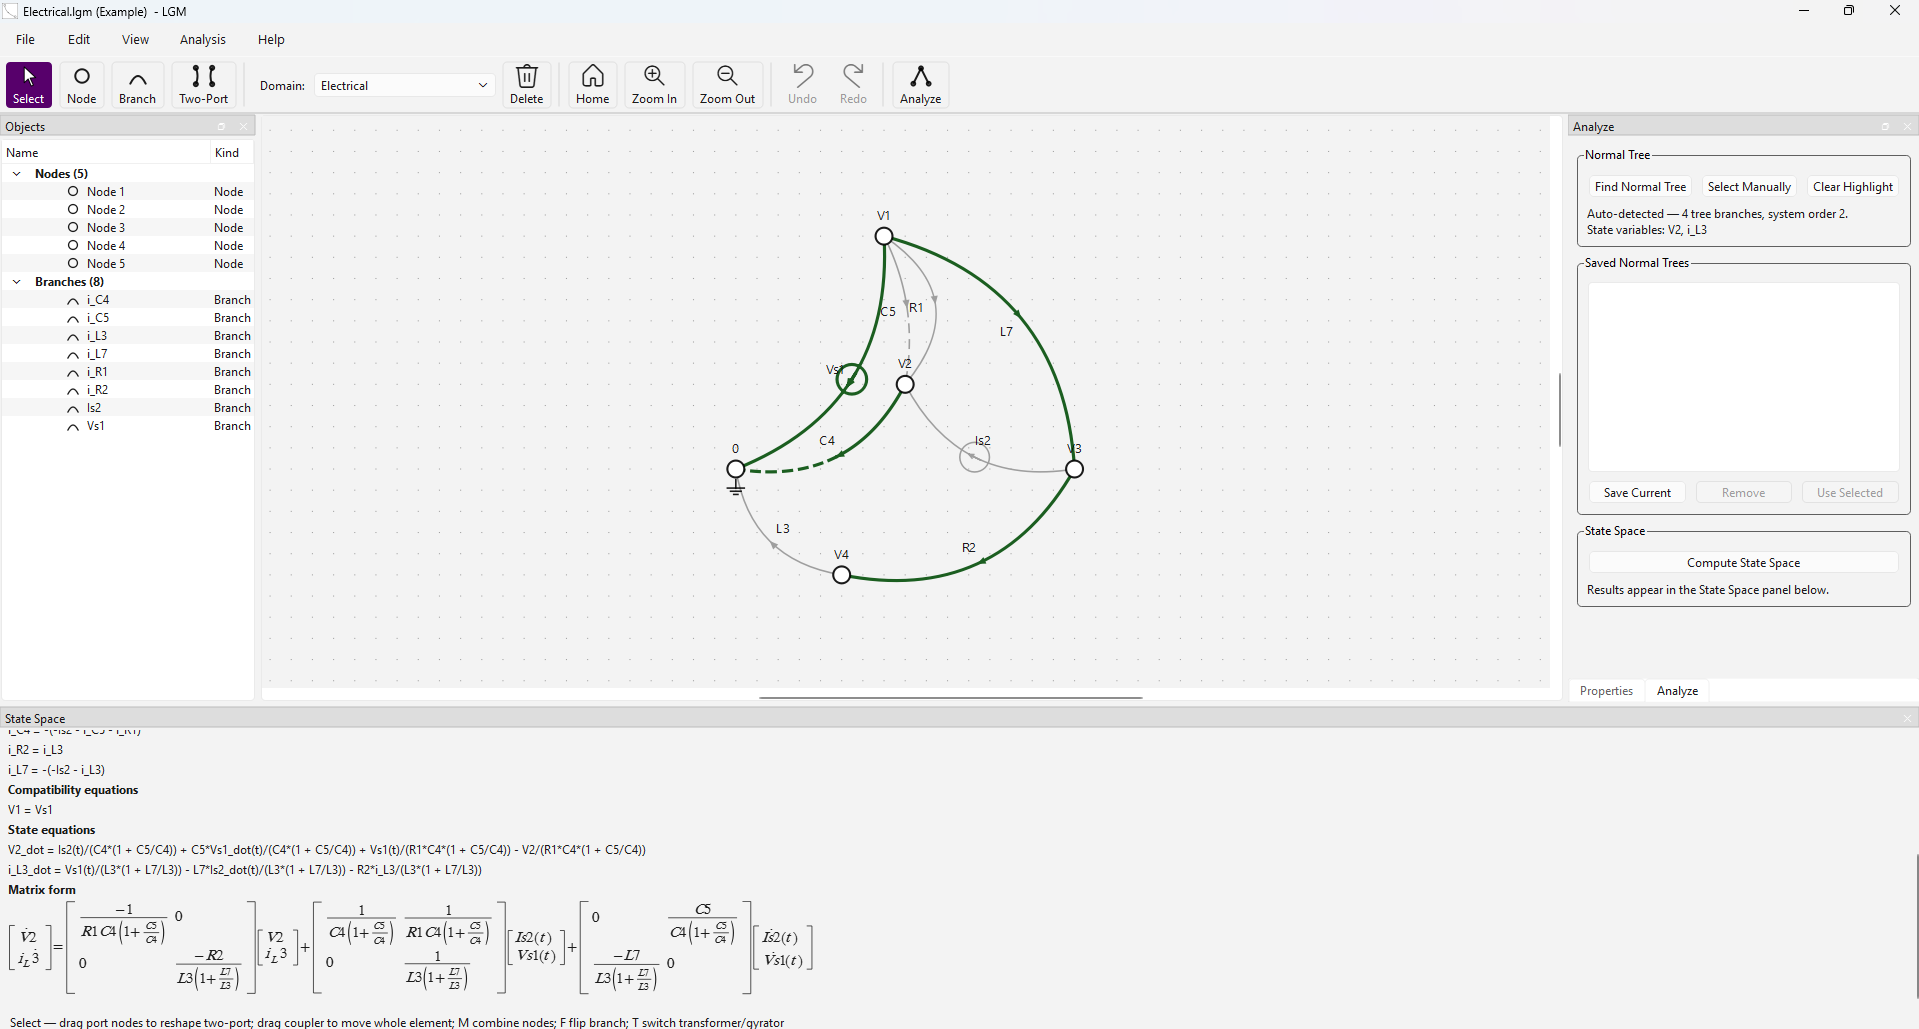
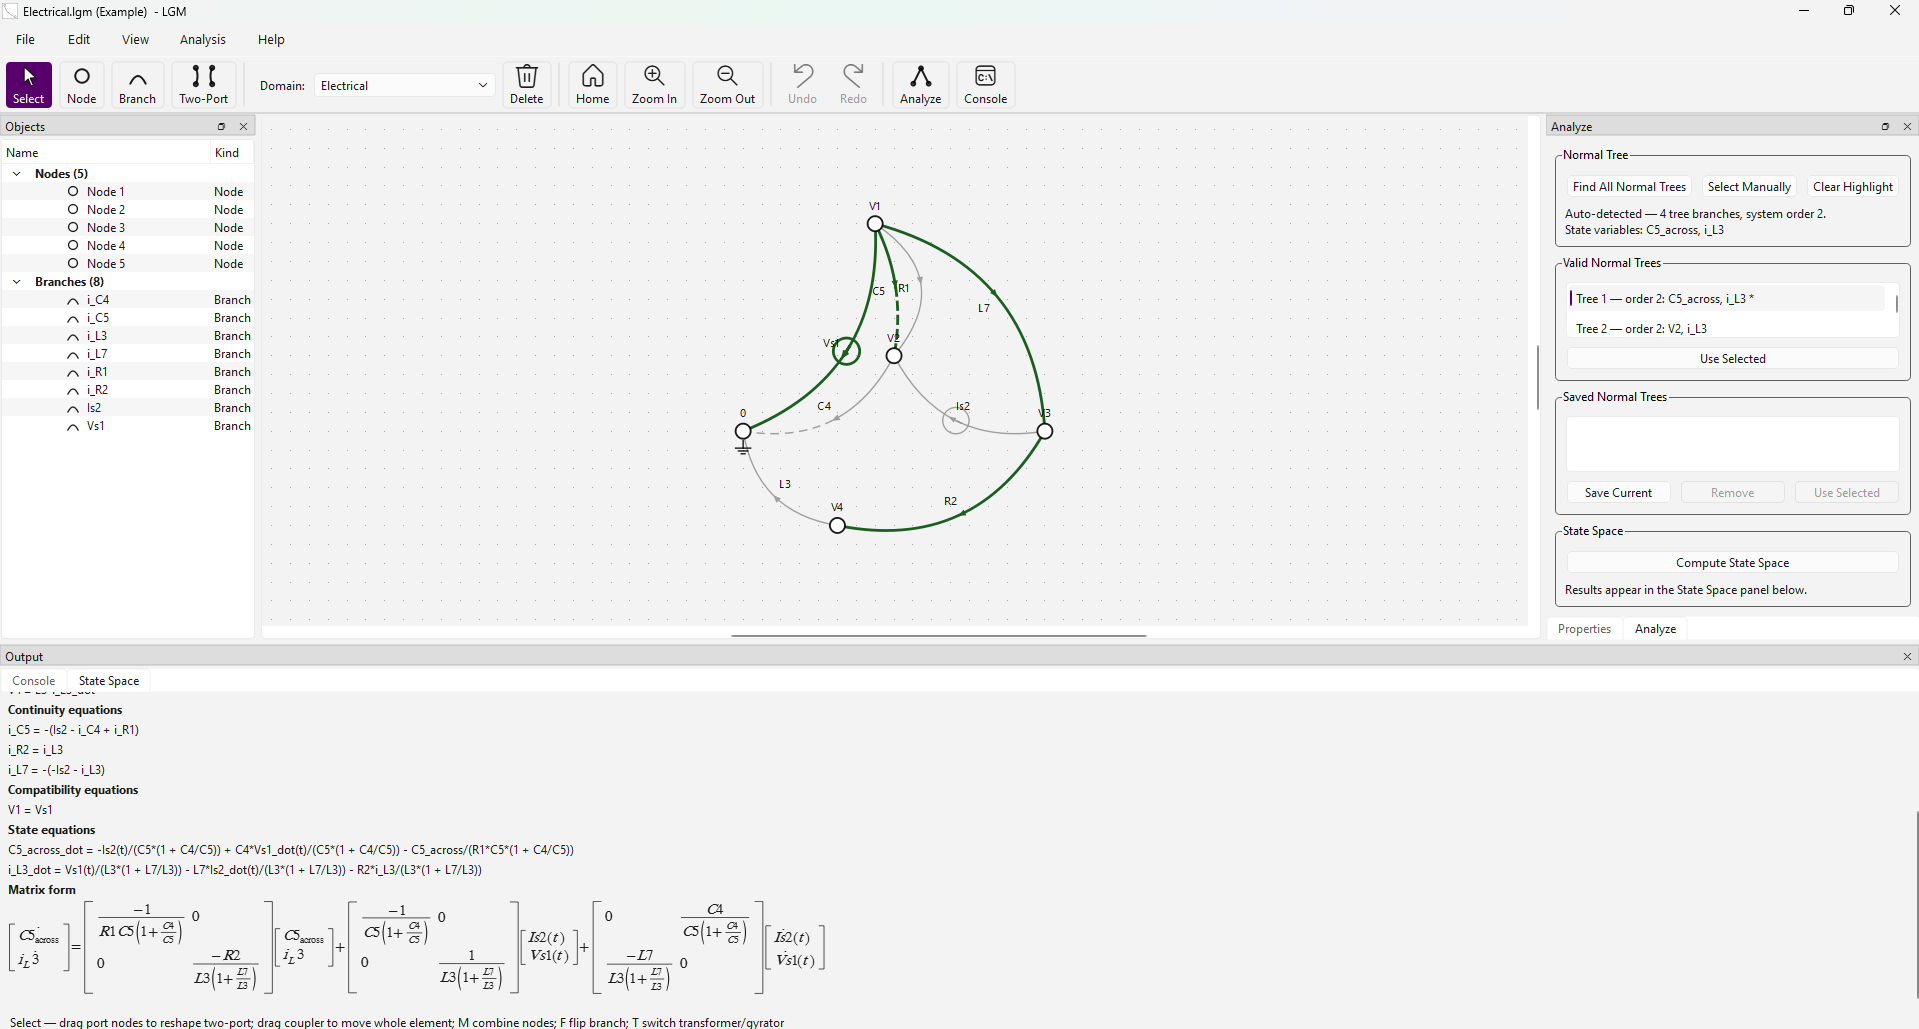
readme update

diff --git a/docs/releases.md b/docs/releases.md
@@ -8,9 +8,9 @@ Keep these in sync when bumping a release:
 
 | Location | Example |
 |----------|---------|
-| `CMakeLists.txt` → `project(LGM VERSION …)` | `0.2.0` |
-| `vcpkg.json` → `"version"` | `0.2.0` |
-| Git tag | `v0.2.0` |
+| `CMakeLists.txt` → `project(LGM VERSION …)` | `0.1.15` |
+| `vcpkg.json` → `"version"` | `0.1.15` |
+| Git tag | `v0.1.15` |
 
 The app reads its version from CMake via the `LGM_VERSION` compile definition (shown in **Help → About**).
 
@@ -29,8 +29,8 @@ The app reads its version from CMake via the `LGM_VERSION` compile definition (s
 3. Tag and push:
 
    ```bash
-   git tag v0.2.0
-   git push origin v0.2.0
+   git tag v0.1.15
+   git push origin v0.1.15
    ```
 
 4. The [Release workflow](.github/workflows/release.yml) builds all platforms with Qt **6.11.0** (same as local dev). CI installs Qt via [aqt](https://github.com/miurahr/aqtinstall) from `master` because the released aqt 3.3.0 does not yet support Qt 6.11’s repository layout.
@@ -42,19 +42,19 @@ The app reads its version from CMake via the `LGM_VERSION` compile definition (s
 ```powershell
 cmake --preset windows-mingw
 cmake --build build
-./scripts/package-windows.ps1 -Version 0.2.0
+./scripts/package-windows.ps1 -Version 0.1.15
 ```
 
 ```bash
 # macOS (.app bundle required)
 cmake --preset ci-macos -DLGM_MACOS_BUNDLE=ON
 cmake --build build
-./scripts/package-macos.sh 0.2.0 build
+./scripts/package-macos.sh 0.1.15 build
 
 # Linux (downloads linuxdeploy on first run)
 cmake --preset ci-linux
 cmake --build build
-./scripts/package-linux.sh 0.2.0 build
+./scripts/package-linux.sh 0.1.15 build
 ```
 
 Installer sources:
@@ -81,4 +81,4 @@ Unsigned builds work but trigger SmartScreen / Gatekeeper warnings. Release CI a
 
 ## GPL source offer
 
-Each release notes body should link to the matching source tag, e.g. `https://github.com/FurkanKaraketir/LGM/tree/v0.2.0`.
+Each release notes body should link to the matching source tag, e.g. `https://github.com/FurkanKaraketir/LGM/tree/v0.1.15`.